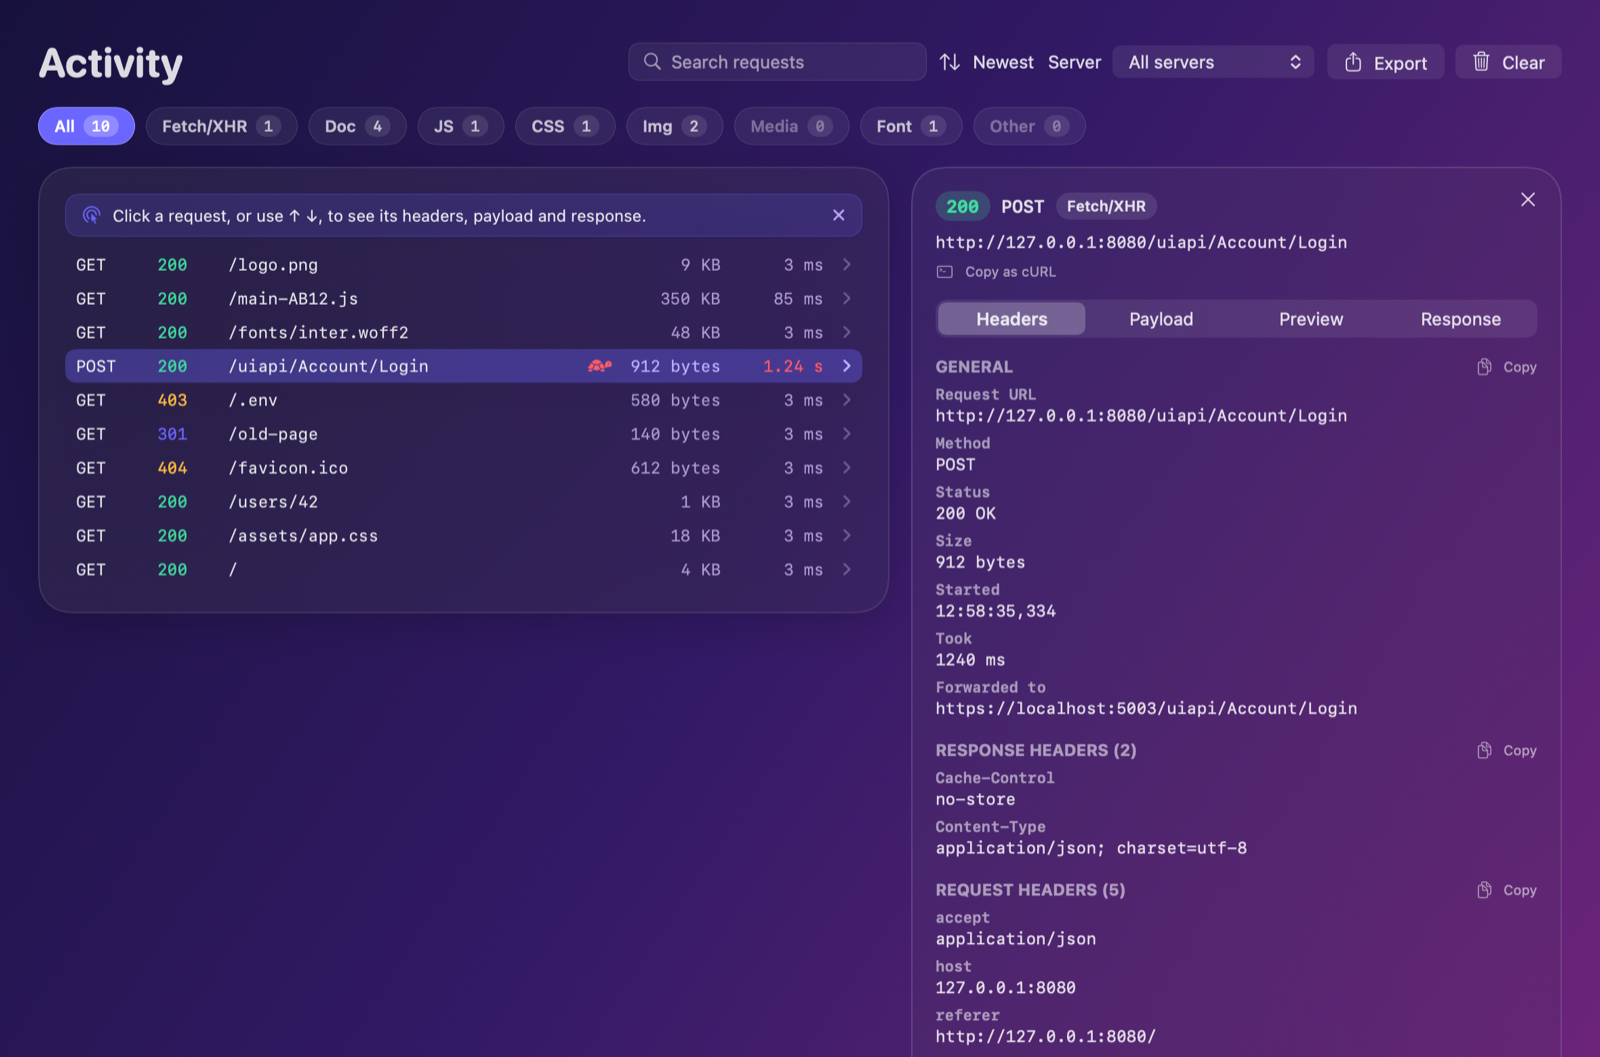
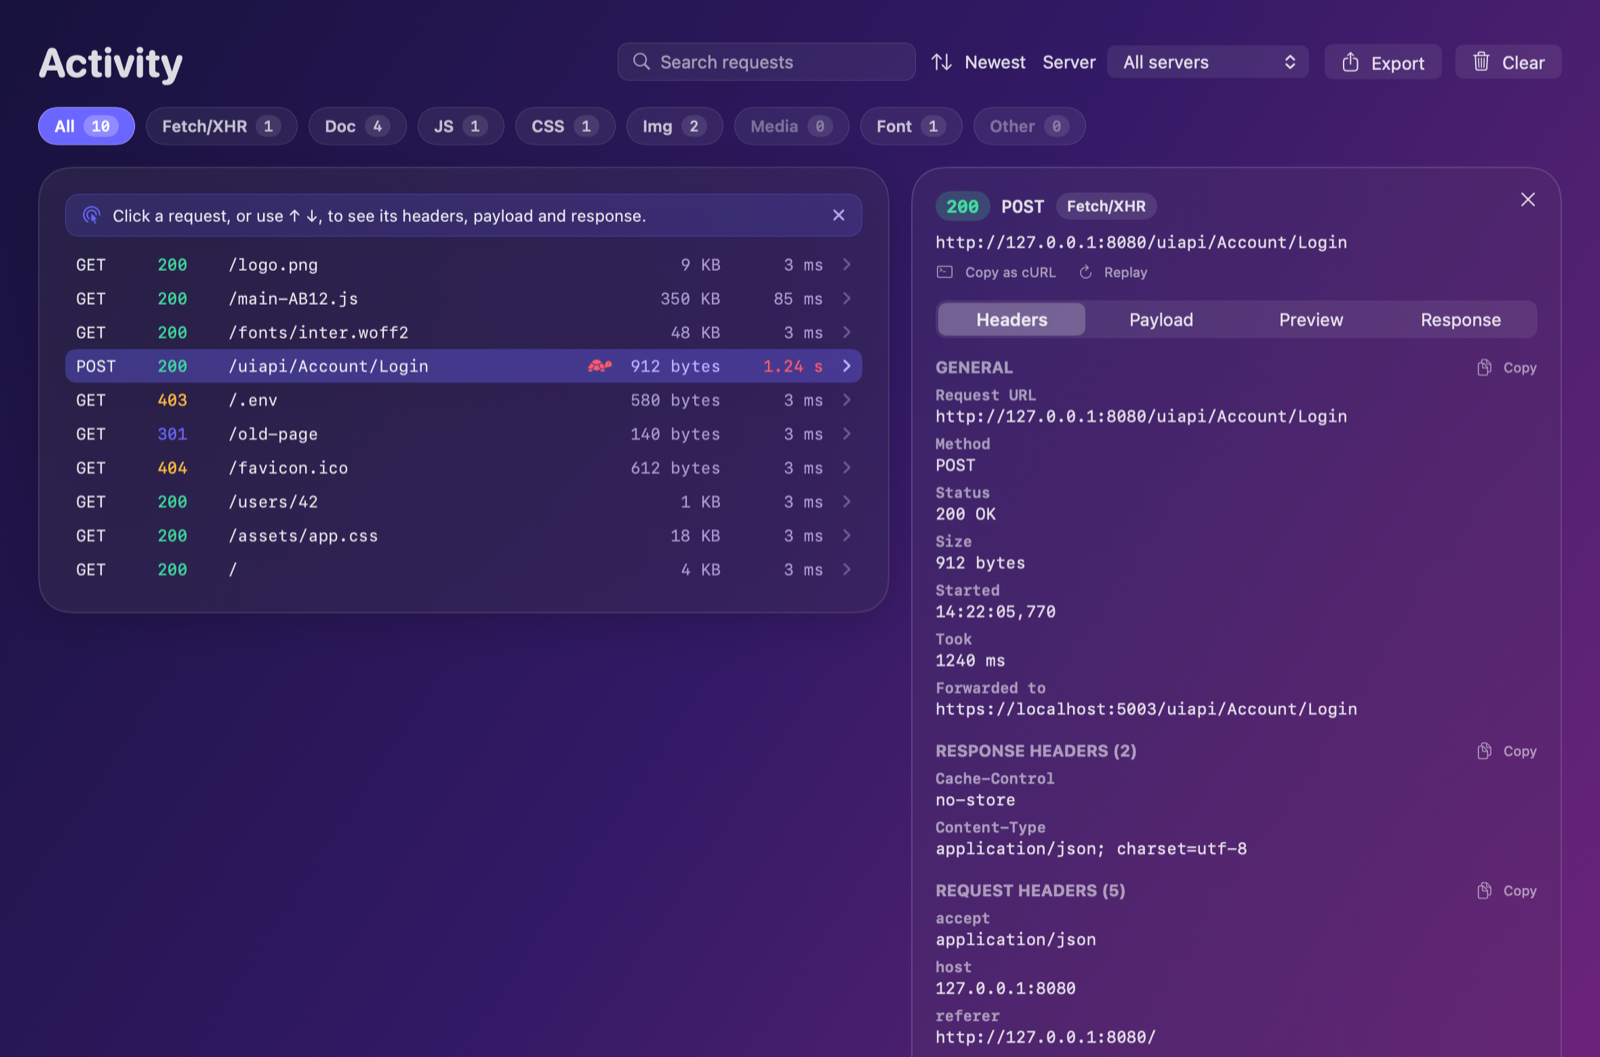
docs: refresh screenshots, README and CLAUDE.md for Replay, Name address and CI
Options screenshot shows Name address; Activity screenshots show Replay. CLAUDE.md gains the CI note, the
snapshot stand-in rule and short notes on Replay, chunked bodies, Name address, the CRLF pitfall and the cursor helper.

diff --git a/CLAUDE.md b/CLAUDE.md
@@ -25,6 +25,9 @@ xcodebuild test -scheme FolderServe -destination 'platform=macOS' CODE_SIGNING_A
 swift test --package-path Packages/FolderServeCore
 ```
 
+CI (`.github/workflows/ci.yml`) runs `swift test` for the package and the app tests on a macOS runner for every push to `main`
+and every pull request.
+
 Run the whole suite before committing. `xcodebuild` prints a lot of `linkd` / `remoteObjectProxy` / `nw_path` log
 noise that is harmless; filter with `grep -E "Executed|\*\* TEST|error:"`.
 
@@ -59,7 +62,9 @@ FOLDERSERVE_SNAPSHOT_DIR=$D TEST_RUNNER_FOLDERSERVE_SNAPSHOT_DIR=$D \
   xcodebuild test -scheme FolderServe -destination 'platform=macOS' CODE_SIGNING_ALLOWED=NO
 ```
 
-Known renderer quirks: a segmented `Picker` draws as a yellow bar with a "no entry" icon, and hover/cursor/animation
+Known renderer quirks: a segmented `Picker`, a `TextField`, a `Menu` and a link-style button draw as a yellow bar with a
+"no entry" icon, so views check `isSnapshotRendering` and draw a plain stand-in (the detail tabs, Activity's search and sort,
+the proxy rule fields, a server's URL). Do the same for any new control. Hover/cursor/animation
 cannot be captured — seed state through initialisers (`ActivityView(initiallyHovered:)`, `AddFolderButton(initiallyHovering:)`,
 `JSONTreeView(folded:)`) and check the live behaviour by hand.
 
@@ -79,3 +84,13 @@ cannot be captured — seed state through initialisers (`ActivityView(initiallyH
 - The JSON preview is a foldable tree (`JSONTreeView` in `RequestDetailView.swift`); keys are sorted, matching
   `displayText`. Bodies that are not valid JSON objects/arrays, or are over 256 KB, fall back to plain text.
 - `RequestLogEntry.durationMs` is how long the server took to answer; it feeds the Activity time column and the "Took" row.
+- **Replay** (`RequestReplay`, the button in the detail panel) re-sends a captured request to the server's *current* address with an
+  `X-FolderServe-Replay` header (`RequestLogEntry.replayHeader`). The proxy never forwards that header, and `RepeatAnalysis` uses it to
+  say "replayed". Bodies are only replayable when captured whole.
+- **Chunked request bodies** are decoded by `ChunkedBody` (core) in the proxy path and forwarded with a `Content-Length`; other transfer
+  codings still get 501.
+- **Name address** (`ServeOptions.friendlyHost`) only changes the URL the app shows and opens (`ServerManager.hostName(for:)`,
+  `HostSlug`); `HostPolicy` already accepts any `*.localhost` host, and nothing else.
+- Swift treats `"\r\n"` as a single `Character`, so `string.contains("\r")` does not match it: check `unicodeScalars` when guarding
+  against header injection.
+- The pointing-hand cursor uses `.handCursor()` (system-owned), never `NSCursor.push()`/`pop()`, which can leave the hand stuck.

diff --git a/README.md b/README.md
@@ -11,7 +11,7 @@ Rendered from the app's built-in sample data (no real folders or requests).
 
 <img src="docs/screenshots/servers-list.png" alt="Servers screen with five sample folders: running, folder missing, port in use and finding a port" width="720">
 
-<img src="docs/screenshots/activity-detail.png" alt="Activity: request list with the slowest request marked, and the selected request's headers, forwarded address and timing" width="900">
+<img src="docs/screenshots/activity-detail.png" alt="Activity: request list with the slowest request marked, and the selected request's Copy as cURL and Replay buttons, headers, forwarded address and timing" width="900">
 
 | Empty state | Menu bar |
 |---|---|
@@ -19,7 +19,7 @@ Rendered from the app's built-in sample data (no real folders or requests).
 
 | Activity | Options |
 |---|---|
-| ![Activity list with a slowest-request marker and time column](docs/screenshots/activity-list.png) | ![Options popover: SPA mode, Cache, HTTPS, CORS](docs/screenshots/options.png) |
+| ![Activity list with a slowest-request marker and time column](docs/screenshots/activity-list.png) | ![Options popover: SPA mode, Cache, Name address, HTTPS, CORS](docs/screenshots/options.png) |
 
 ![Foldable, coloured JSON tree](docs/screenshots/json-tree.png)
 
